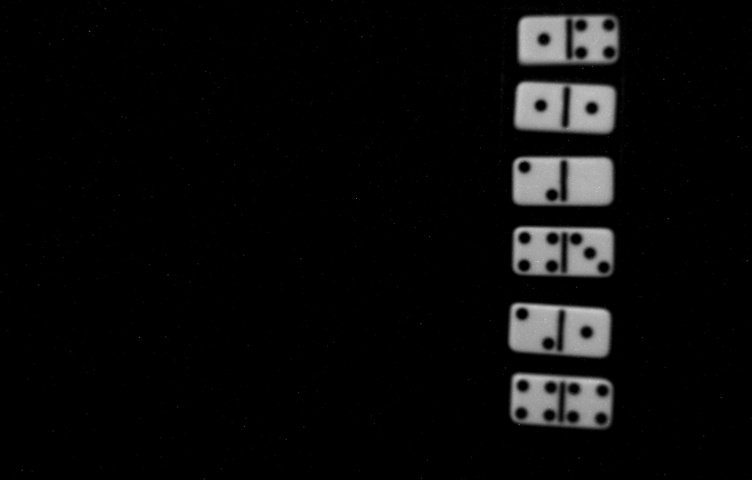
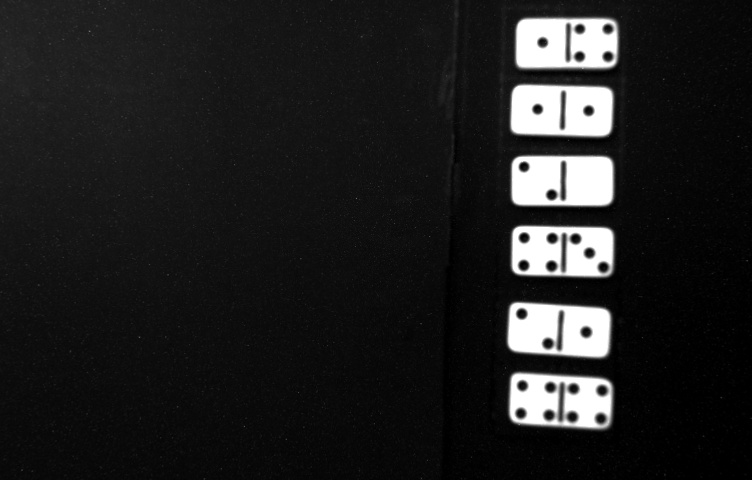
IT IS ALMOST WORKING

diff --git a/workspace/src/full_stack_domino/src/game_engine_node.py b/workspace/src/full_stack_domino/src/game_engine_node.py
@@ -594,8 +594,9 @@ class GameEngine:
                                 desired_dom_hand_pos = np.array([hand_pos_cm[:,i-1],hand_pos_cm[:,i]]) #Where the domino is located in the robot's hand    
                             
                             #Takes the center of mass of both halves of the domino and calculates the center of mass of the actual domino
-                            hand_dom_cm = np.array([np.mean((int(desired_dom_hand_pos[0,0]), int(desired_dom_hand_pos[0,1]))),np.mean((int(desired_dom_hand_pos[0,0]), int(desired_dom_hand_pos[1,0])))])
-                            
+                            print(desired_dom_hand_pos)
+                            hand_dom_cm = np.array([((desired_dom_hand_pos[0,0]+desired_dom_hand_pos[1,0])/2)+0.015, (desired_dom_hand_pos[0,1]+desired_dom_hand_pos[1,1])/2])
+                            print(hand_dom_cm)
                             pick_up_pose = PoseStamped()
                             pick_up_pose.header = Header(stamp=rospy.Time.now(), frame_id="base")
                             pick_up_pose.pose.position.x = hand_dom_cm[0]
@@ -640,10 +641,10 @@ class GameEngine:
                             place_pose.pose.position.x = des_board_dom_cm[0]
                             place_pose.pose.position.y = des_board_dom_cm[1]
                             place_pose.pose.position.z = domino_height
-                            place_pose.pose.orientation.x = quat_x
-                            place_pose.pose.orientation.y = quat_y
-                            place_pose.pose.orientation.z = quat_z
-                            place_pose.pose.orientation.w = quat_w
+                            place_pose.pose.orientation.x = 0 #quat_x
+                            place_pose.pose.orientation.y = 1 #quat_y
+                            place_pose.pose.orientation.z = 0 #quat_z
+                            place_pose.pose.orientation.w = 0 #quat_w
 
                             '''
                             self.def_board_pub= rospy.Publisher('/desired_board_pos',des_board_pose, queue_size = 10)

diff --git a/workspace/src/full_stack_domino/src/domino_detection_srv.py b/workspace/src/full_stack_domino/src/domino_detection_srv.py
@@ -30,7 +30,7 @@ class DominoDetector():
         #img = cv2.resize(img, None, fx = 0.5, fy = 0.5)
         #img = cv2.GaussianBlur(img,(5,5),0)
         #gray = cv2.cvtColor(img, cv2.COLOR_BGR2GRAY) # Convert to grayscale
-        ret,thresh = cv2.threshold(img,35,255,0) # Apply black/white mask. TUNE THIS BASED ON LIGHTING CONDITIONS Ada: 200-220ish, Alan: 127
+        ret,thresh = cv2.threshold(img,127,255,0) # Apply black/white mask. TUNE THIS BASED ON LIGHTING CONDITIONS Ada: 200-220ish, Alan: 127, 35 is darkness
         #cv2.imshow("Shapes", thresh)
         #cv2.waitKey(0)
         #cv2.destroyAllWindows()

diff --git a/workspace/src/domino_vision_pkg/src/domino_detection.py b/workspace/src/domino_vision_pkg/src/domino_detection.py
@@ -15,7 +15,7 @@ def domino_visualization():
     #img = cv2.resize(img, None, fx = 0.5, fy = 0.5)
     #img = cv2.GaussianBlur(img,(5,5),0)
     gray = cv2.cvtColor(img, cv2.COLOR_BGR2GRAY) # Convert to grayscale
-    ret,thresh = cv2.threshold(gray,35,255,0) # Apply black/white mask. TUNE THIS BASED ON LIGHTING CONDITIONS Ada: 200-220ish, Alan: 127. Dark Azula = 35
+    ret,thresh = cv2.threshold(gray,127,255,0) # Apply black/white mask. TUNE THIS BASED ON LIGHTING CONDITIONS Ada: 200-220ish, Alan: 127. Dark Azula = 35
     cv2.imshow("Shapes", thresh)
     cv2.waitKey(0)
     cv2.destroyAllWindows()
